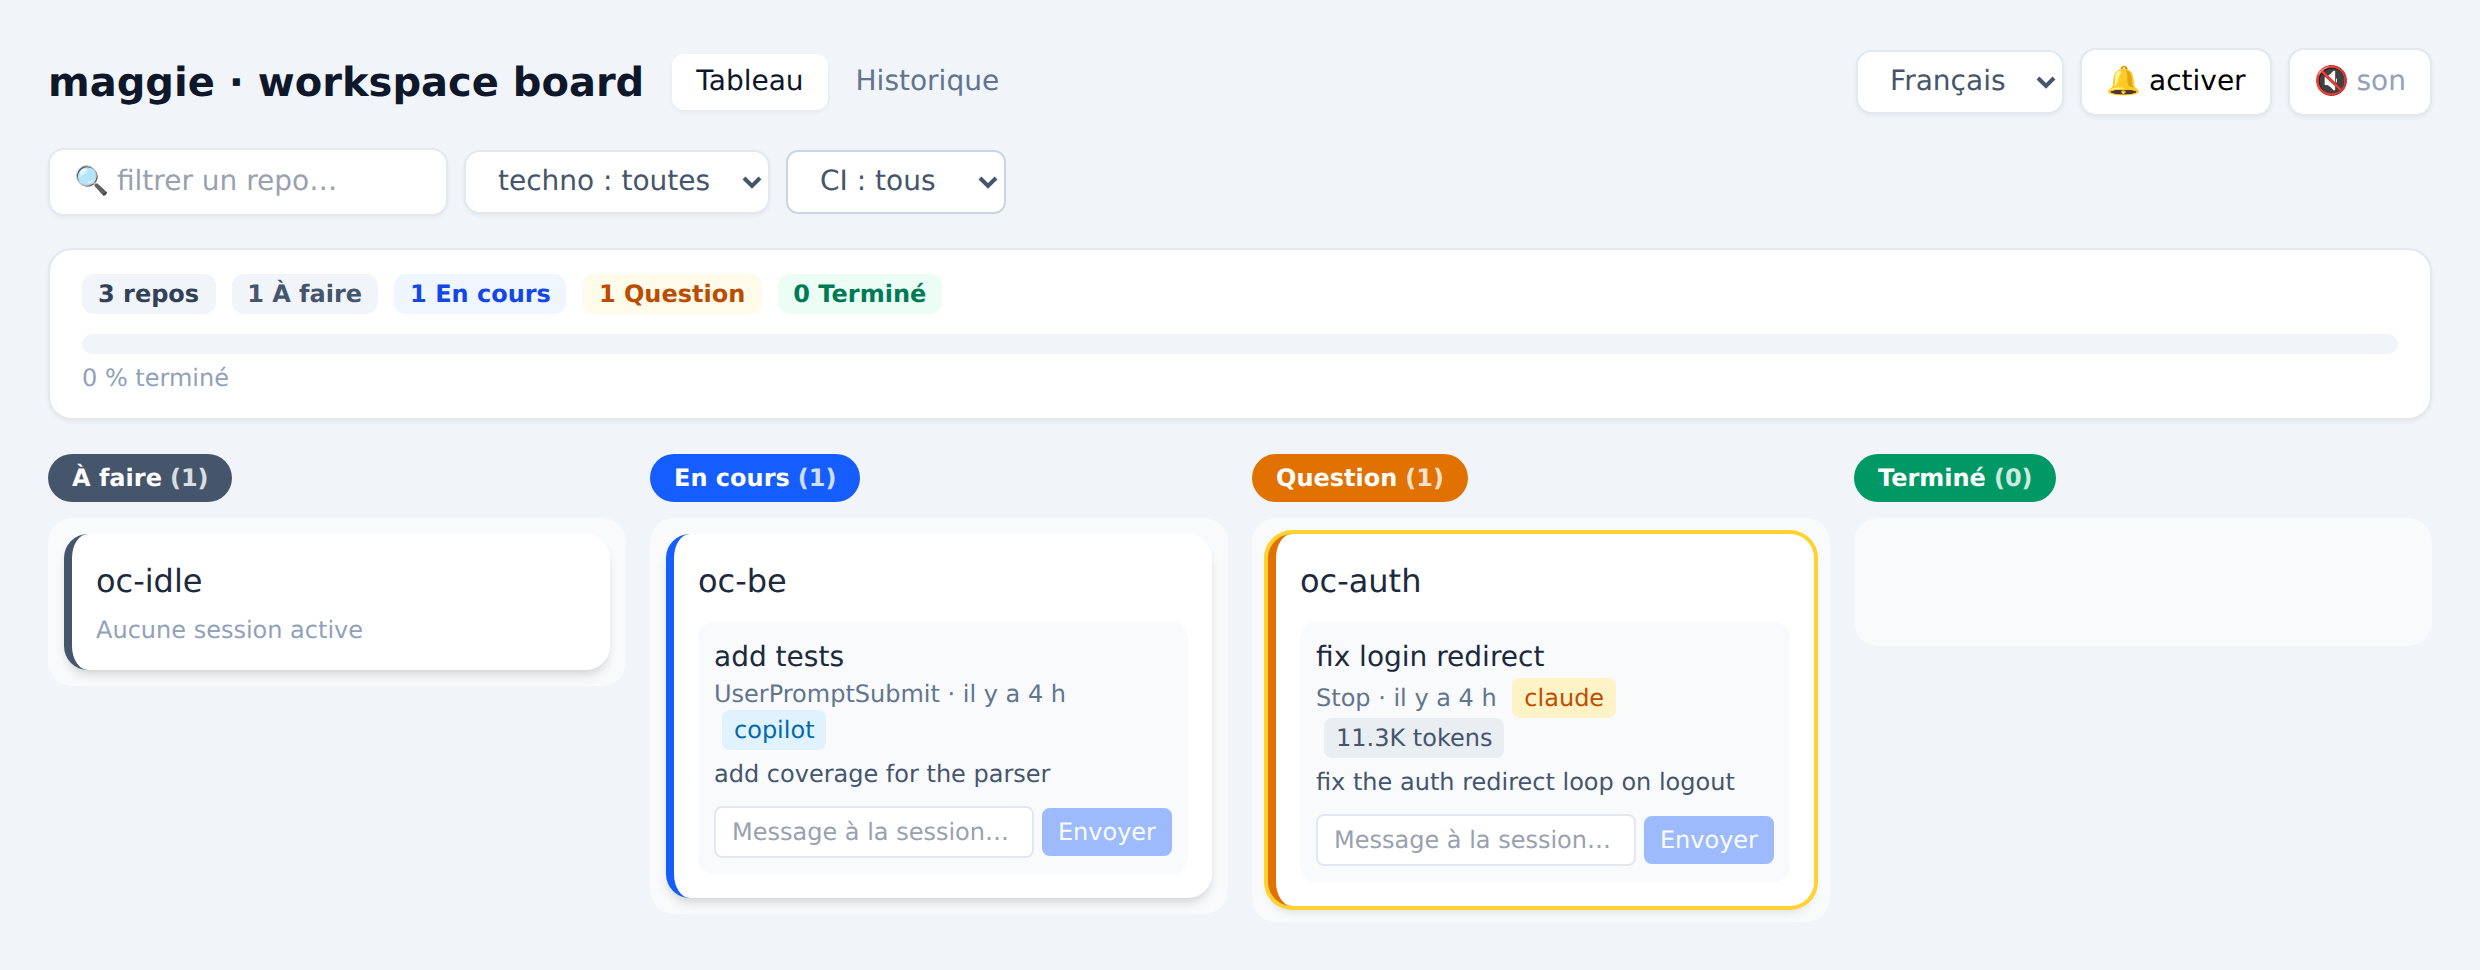
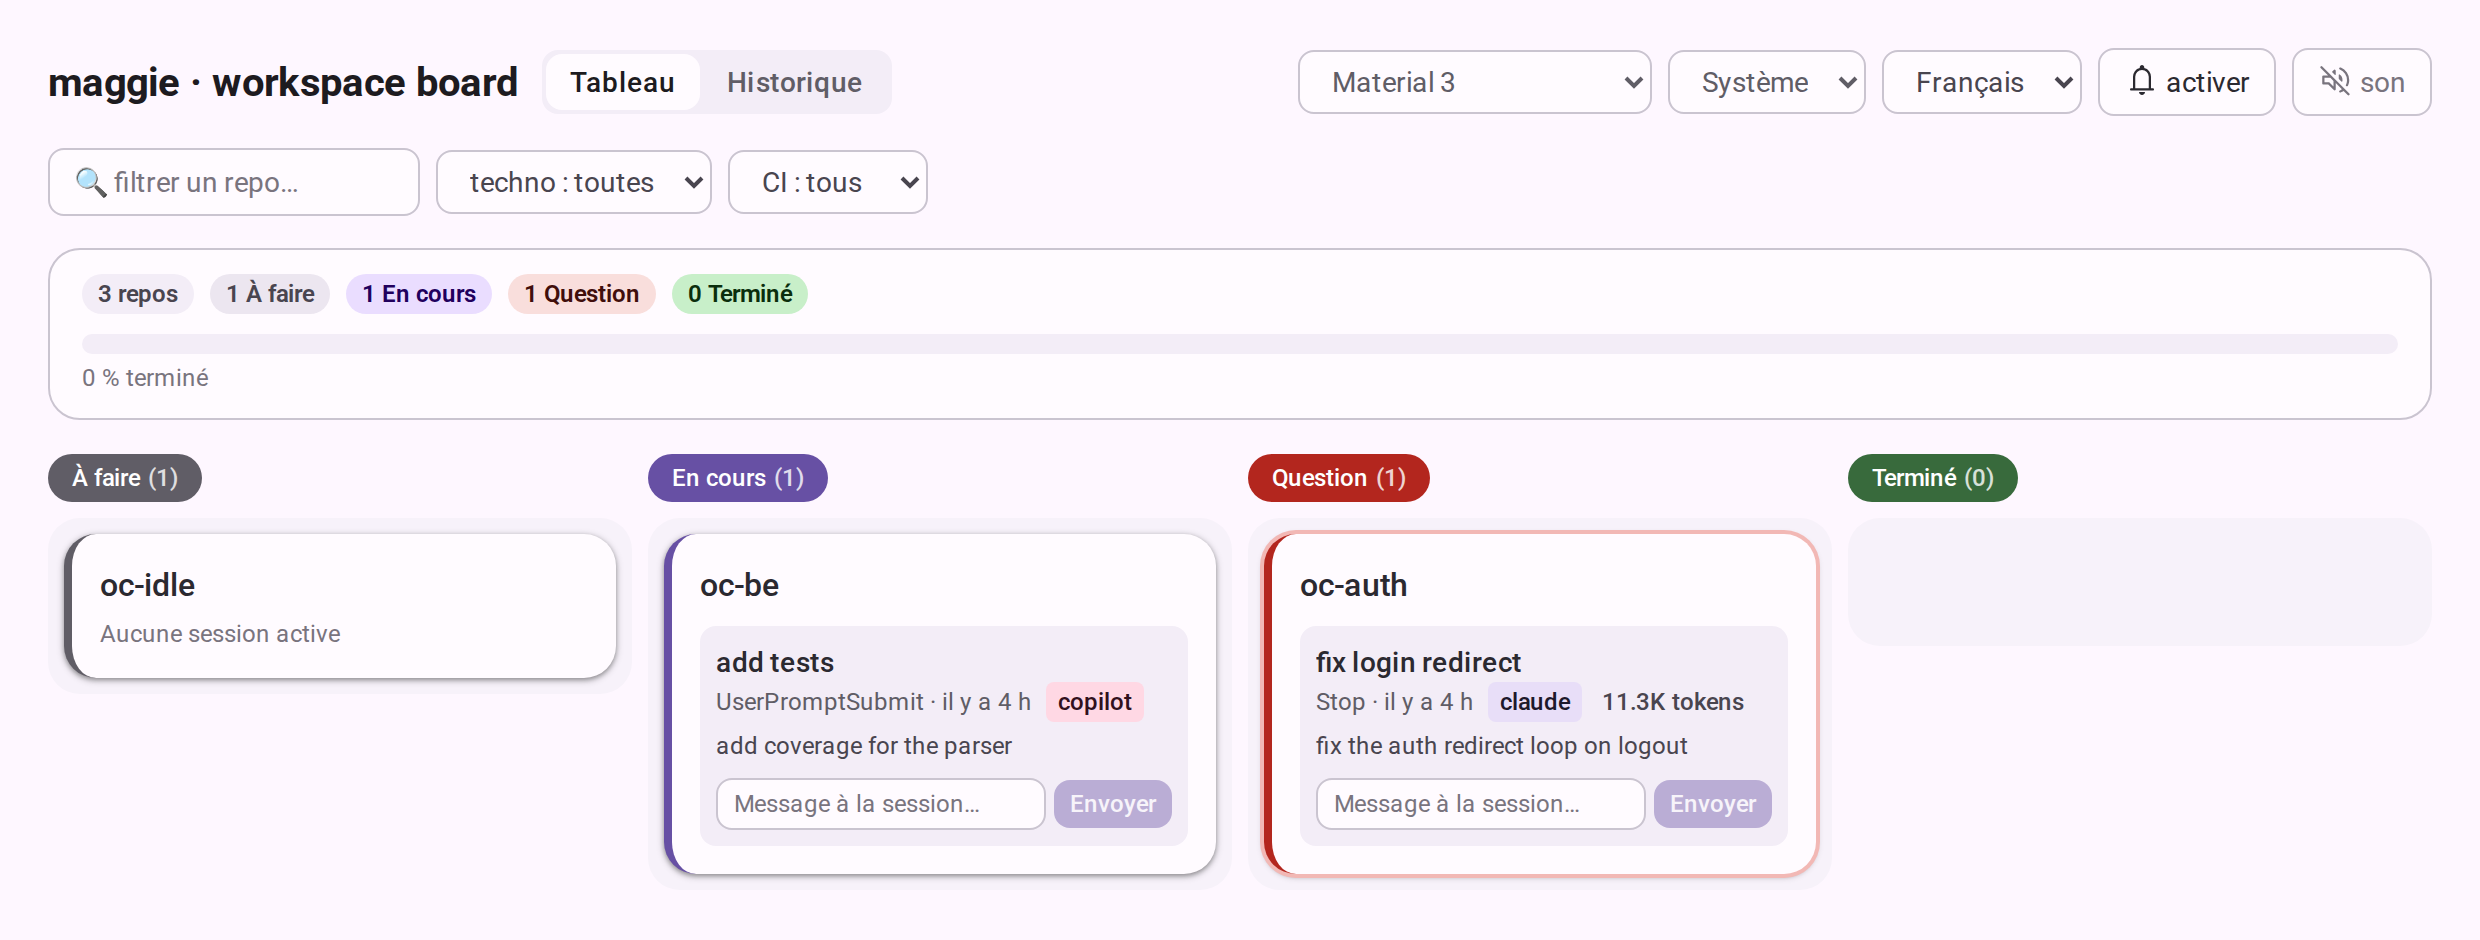
docs(board): document the four themes and refresh the screenshots
Refreshes docs/images/board/*.png under the new Material 3 default and
adds board/theme-picker.png showing the header's theme and mode
pickers (a native <select>'s open dropdown is an OS-level overlay
headless Chromium won't paint into a screenshot, so it shows both
pickers closed). Documents the four themes in docs/board-dashboard.md
and adds the changelog entry.

Also extends docs/screenshots/capture.mjs so a scene can force
localStorage `maggie:theme`, mirroring how it already sets
maggie:locale/maggie:sound. This was needed to render the board under
the frozen `legacy` theme and compare it against the previously
committed screenshots (the freeze's acceptance test) before
overwriting them — confirmed a match, so no legacy.css changes were
needed.

Claude-Session: https://claude.ai/code/session_01R3HTLhDPErNVeJTStVHKw9

diff --git a/docs/board-dashboard.md b/docs/board-dashboard.md
@@ -106,6 +106,10 @@ or not the server is running.
   agent show as `claude`.
 - **Language picker** in the header: English (the default), French, German and
   Spanish. See below.
+- **Theme picker** in the header: Material 3 (the default), Material 3
+  Expressive, Material classic, and Legacy — the board's pre-Material look,
+  kept selectable but frozen. A second picker sets light, dark or system.
+  See [Themes](#themes).
 
 ## Messaging a session
 
@@ -176,6 +180,38 @@ both routes answer `503` and the panel says so rather than guessing a directory
 to write into. The checkout is resolved the same way hook reconciliation
 resolves it: `path` from the config when it pins one, otherwise
 `<workspace>/<name>`.
+
+## Themes
+
+![The theme and mode pickers](images/board/theme-picker.png)
+
+The board ships four looks, chosen from the header:
+
+| Theme | What it is |
+|---|---|
+| **Material 3** | Material 3's tonal surfaces on a violet seed. The default. |
+| **Material 3 Expressive** | The expressive revision: full-colour column blocks, large radii, heavy titles. |
+| **Material classic** | Material of the M2 era — indigo app bar, 4px corners, elevation shadows. |
+| **Legacy (frozen)** | Exactly what the board looked like before themes existed. Still selectable, no longer maintained: new work targets the Material themes. |
+
+A second picker sets **light**, **dark** or **system** (the default, which
+follows the operating system). The legacy theme is light only, so the mode
+picker is disabled while it is active — the stored preference is kept and
+applies again as soon as another theme is selected.
+
+Both choices live in `localStorage` (`maggie:theme`, `maggie:mode`),
+per browser, like the language. Nothing is stored server-side, so two people
+looking at the same board can each have their own.
+
+### Adding or changing a theme
+
+Every theme is one CSS file under `apps/board/src/themes/` that redefines the
+same contract of custom properties — colours, radii, shadows, spacing and
+type. `contract.css` declares the full set; `themes/contract.test.js` fails
+any theme that misses one, and `themes/contrast.test.js` fails a palette that
+puts text below WCAG AA on its own background. Components never name a
+colour: they use semantic utilities (`bg-surface`, `text-ink`,
+`rounded-card`) that resolve through those variables.
 
 ## Language
 

diff --git a/CHANGELOG.md b/CHANGELOG.md
@@ -52,6 +52,10 @@ changes in minor releases.
   board must have been started with a config, since that is what tells it where
   each repository is checked out; without one the endpoints answer `503` and the
   panel says so.
+- The board ships four selectable themes — Material 3 (the new default),
+  Material 3 Expressive, Material classic, and the previous look as a frozen
+  `Legacy` theme — with a light/dark/system picker beside them. Both choices
+  persist per browser. ([spec](docs/superpowers/specs/2026-09-14-board-material-themes-design.md))
 - The status board now tracks **GitHub Copilot CLI** sessions locally, alongside
   Claude Code ones. `maggie-workspace --agent copilot` merges Copilot hooks into
   each checkout's `.github/copilot/settings.local.json` (`sessionStart`,
